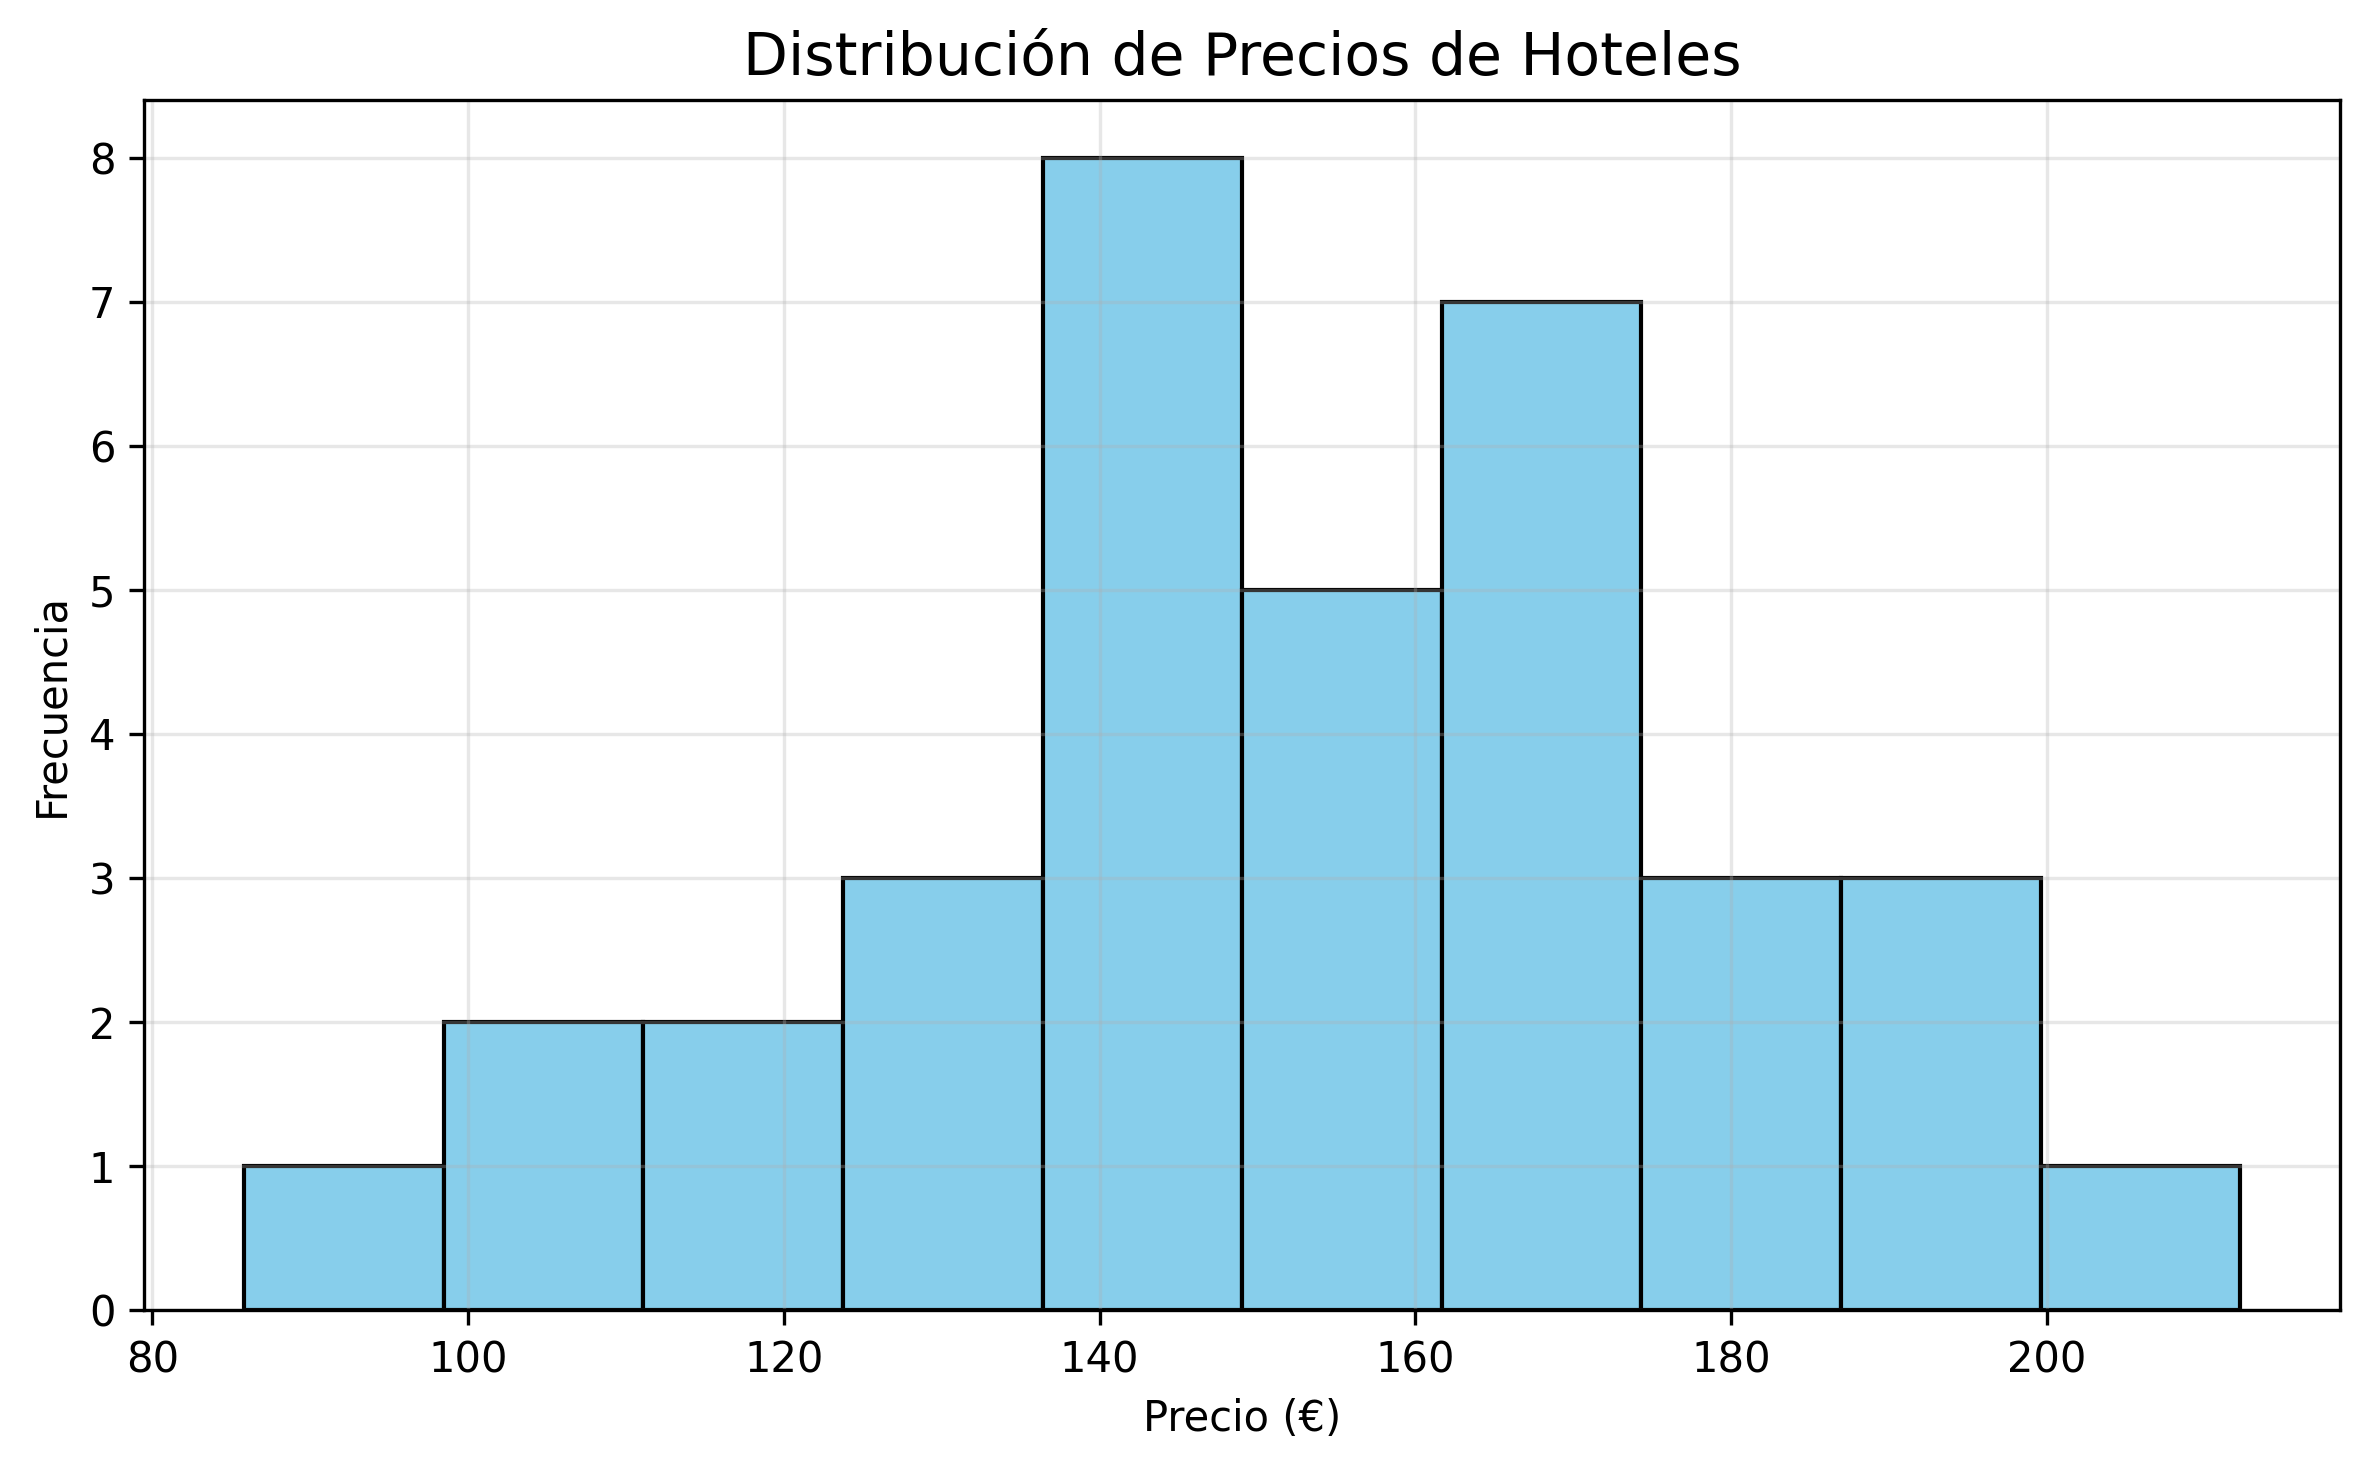
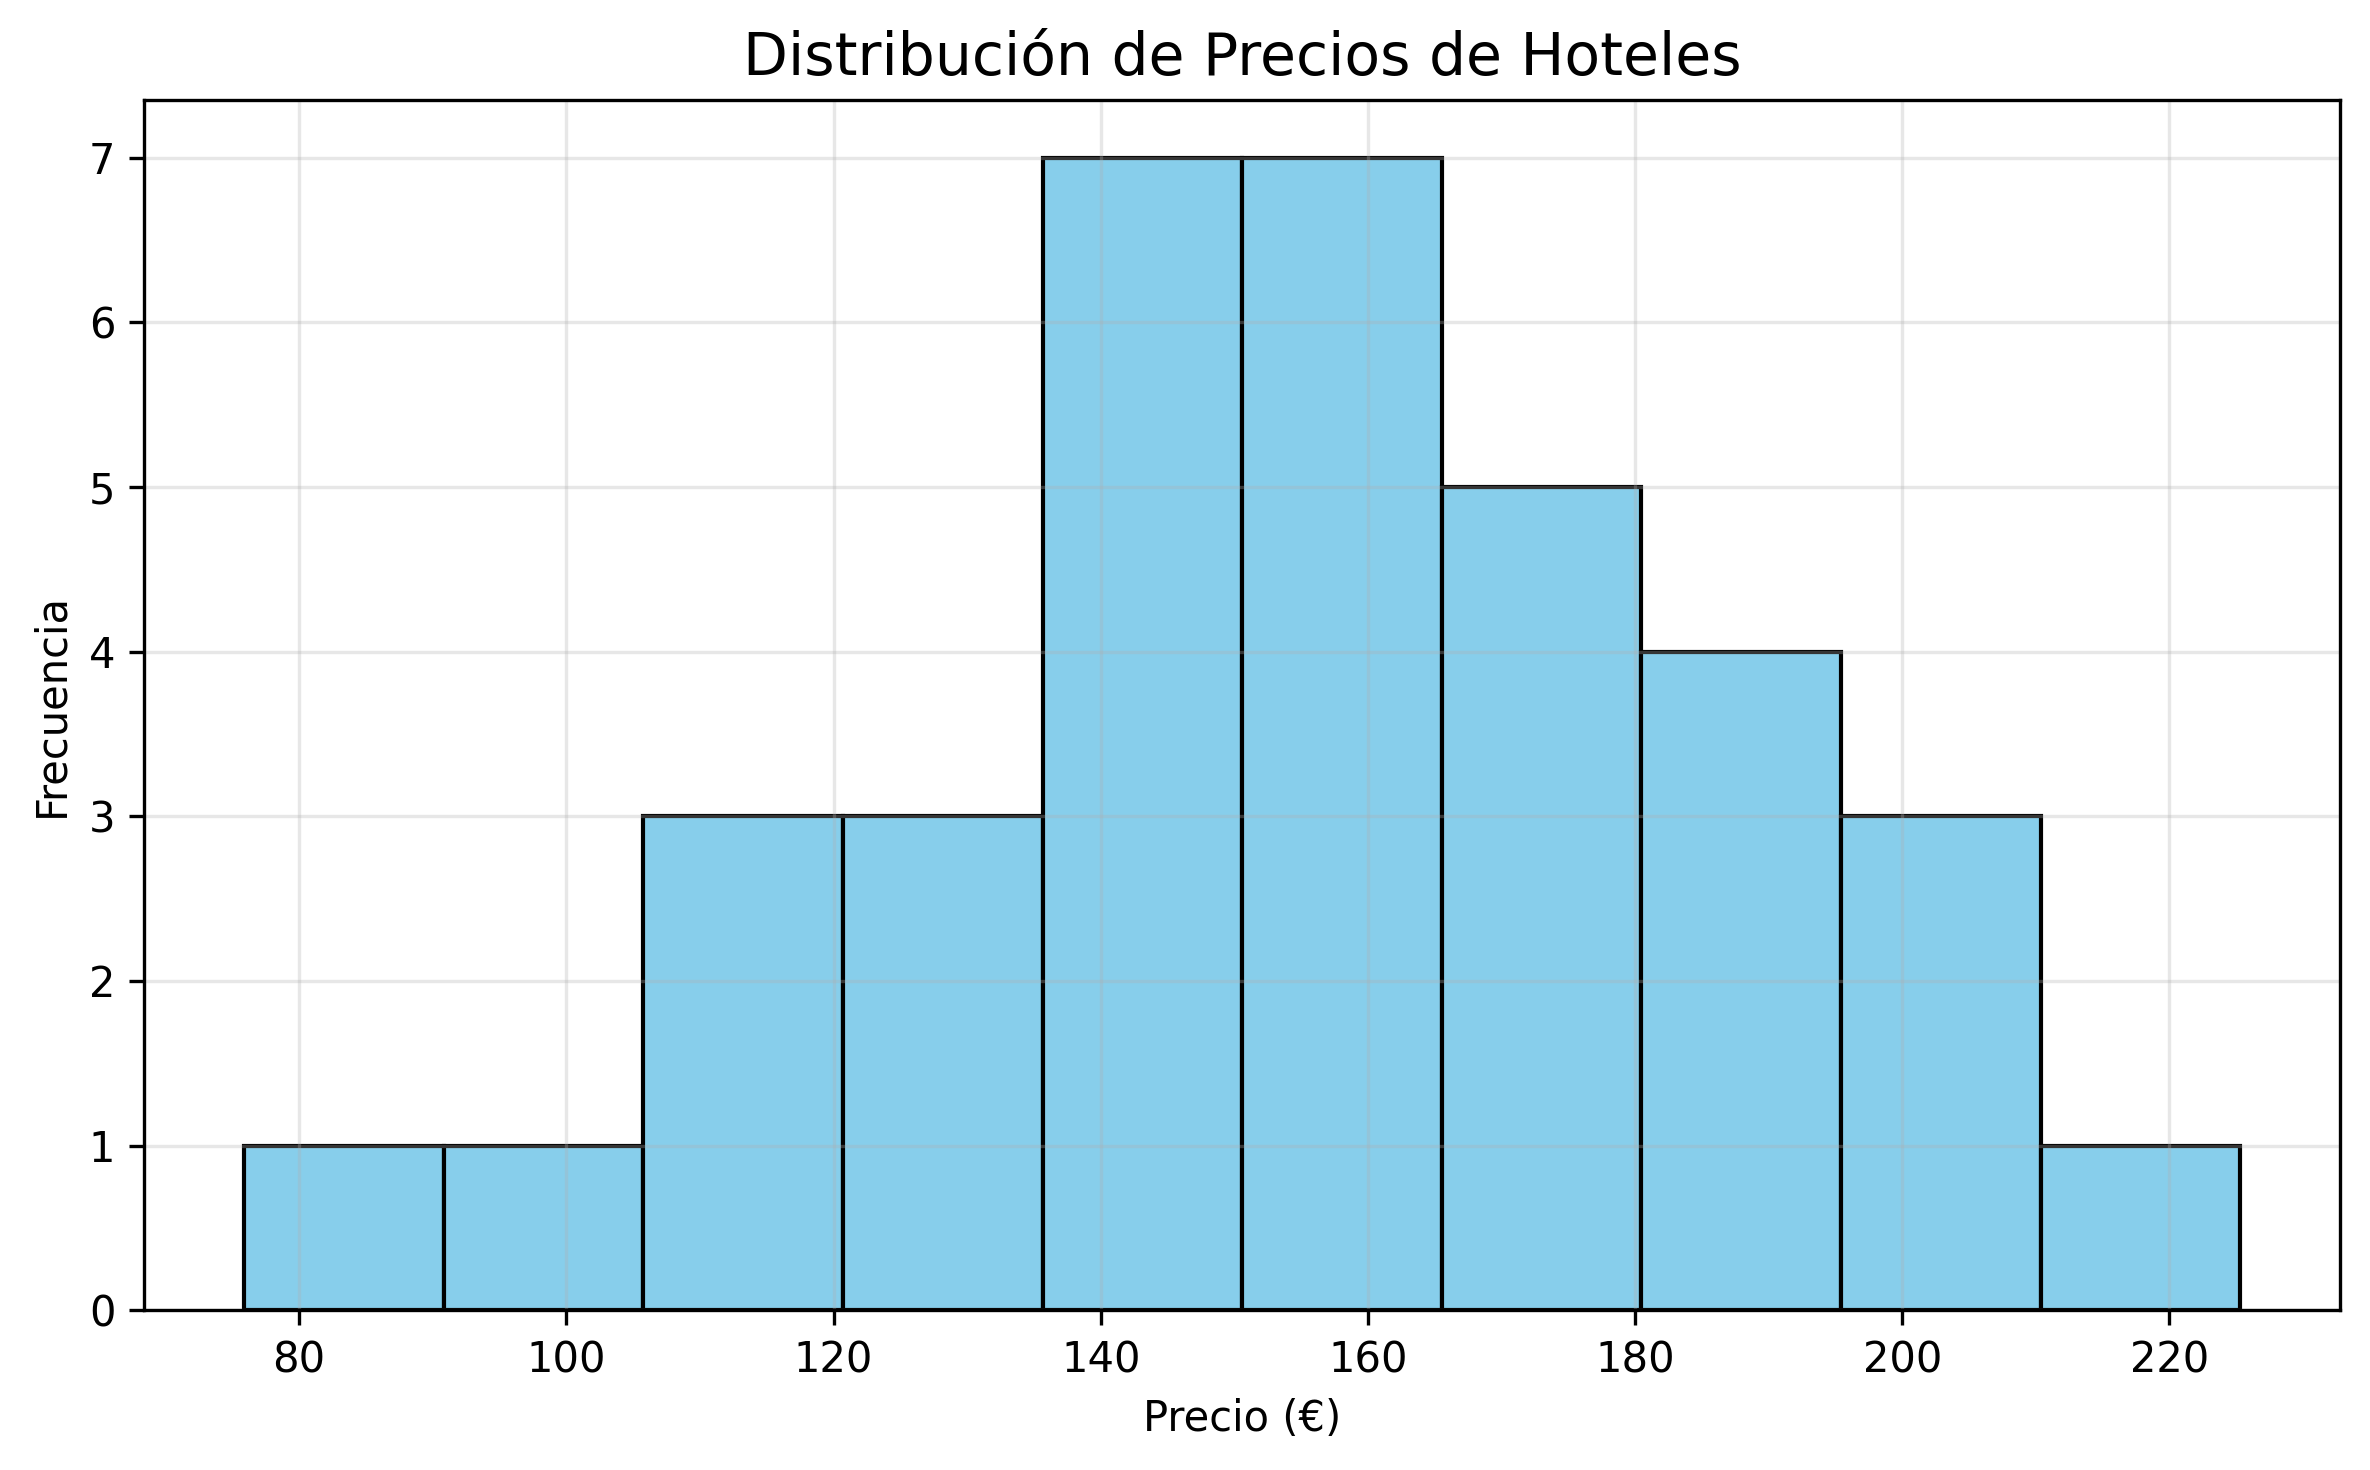
Agregamos Hoteles al experimento

diff --git a/week_two/datos_experimento/e_hoteles.py b/week_two/datos_experimento/e_hoteles.py
@@ -120,7 +120,7 @@ circulo.plot(ax=ax, facecolor='none', edgecolor='red', linestyle='--', linewidth
 
 for x, y, label, precio, dist in zip(gdf_hoteles.geometry.x, gdf_hoteles.geometry.y, gdf_hoteles['Hotel'],
                                      gdf_hoteles['Precio'], df['Distancia_al_Centro_km']):
-    ax.text(x + 30, y + 30, f"{label})", fontsize=8, ha='left', va='bottom', zorder=4)
+    ax.text(x + 30, y + 30, f"{label}", fontsize=8, ha='left', va='bottom', zorder=4)
 
 ctx.add_basemap(ax, source=ctx.providers.OpenStreetMap.Mapnik)
 ax.set_title("Hoteles Generados Concentrados Cerca del Centro de Madrid", fontsize=16)
@@ -153,7 +153,7 @@ try:
 
     # Mapa de fondo y detalles
     ctx.add_basemap(ax, source=ctx.providers.OpenStreetMap.Mapnik)
-    ax.legend(loc='upper right', fontsize=10)
+    ax.legend(loc='lower right', fontsize=10)
     ax.set_title("Hoteles Concentrados en el Centro y Estaciones de Metro en Madrid", fontsize=16)
     ax.set_axis_off()
 

diff --git a/week_two/datos_experimento/README.md b/week_two/datos_experimento/README.md
@@ -1,6 +1,6 @@
 # Semana II  Octubre de 2025 
 
-## Temas relevantes reunion 6/Oct/25
+## Temas relevantes reunion 06/Octubre/2025
 
 - **Cruce de informacion**
     - Se verifico que Mistral, Gemini, Claude y ChatGPT (el ultimo con errores), son capaces de resolver un grafo de 
@@ -78,3 +78,51 @@ $$
     - *Visualización si se el sistema en Madrid*
     ![Sistema Generico en Madrid](sistema_generico_madrid.png "Sistema Generico en Madrid")
     Sistema Generico sobre un mapa de Madrid, mostrando las estaciones y conexiones de las líneas de transporte.
+
+## Nuevos datos para un cruce de informacion. 
+
+
+Como una extensión del experimento genérico, se generaron datos sintéticos de hoteles con el objetivo de simular una ciudad 
+ficticia. Las ubicaciones geográficas de los hoteles se determinaron mediante una **distribución exponencial centrada en el 
+núcleo urbano**, tal que la distancia radial $ r $ desde el centro cumple:
+
+$$
+r \sim \text{Exponencial}(\lambda), \quad \lambda = \frac{1}{\mu_r}
+$$
+
+donde $ \mu_r $ es la **distancia media esperada al centro**. El ángulo \(\theta\) se selecciona uniformemente:
+
+$$
+\theta \sim \mathcal{U}(0, 2\pi)
+$$
+
+Las coordenadas geográficas $(\phi, \lambda)$ de cada hotel se aproximan a partir del centro $(\phi_c, \lambda_c)$ mediante:
+
+$$
+\phi = \phi_c + \frac{r}{R_\text{Tierra}} \cos(\theta) \cdot \frac{180}{\pi}, \quad
+\lambda = \lambda_c + \frac{r}{R_\text{Tierra}} \frac{\sin(\theta) \cdot 180}{\pi \cos(\phi_c)}
+$$
+
+donde $ R_\text{Tierra} = 6371\,\text{km} $ es el radio de la Tierra.  
+
+Adicionalmente, se asigna un **precio \(P\)** a cada hotel siguiendo una distribución normal:
+
+$$
+P \sim \mathcal{N}(\mu_P, \sigma_P^2), \quad P \geq P_\text{min}
+$$
+
+donde $ \mu_P $ es el precio medio, $ \sigma_P $ la desviación estándar, y $ P_\text{min} $ el precio mínimo permitido para garantizar valores realistas.  
+
+Este implementacion proporciona un conjunto de datos georreferenciados que refleja de manera consistente la **distribución espacial y económica de los hoteles**, 
+lo cual es útil para análisis de planificación urbana y simulaciones de infraestructura turística.
+
+#### **Distribución espacial de los hoteles**
+
+![Distribucion Hoteles](hoteles_concentrados_sobre_mapa_centro_madrid.png "Distribucion Hoteles")    
+
+#### **Distirbucion de Hoteles y lineas de Metro.**
+
+![Hoteles y Metro](hoteles_concentrados_centro_y_metro_madrid.png "Hoteles y Metro")
+
+
+
